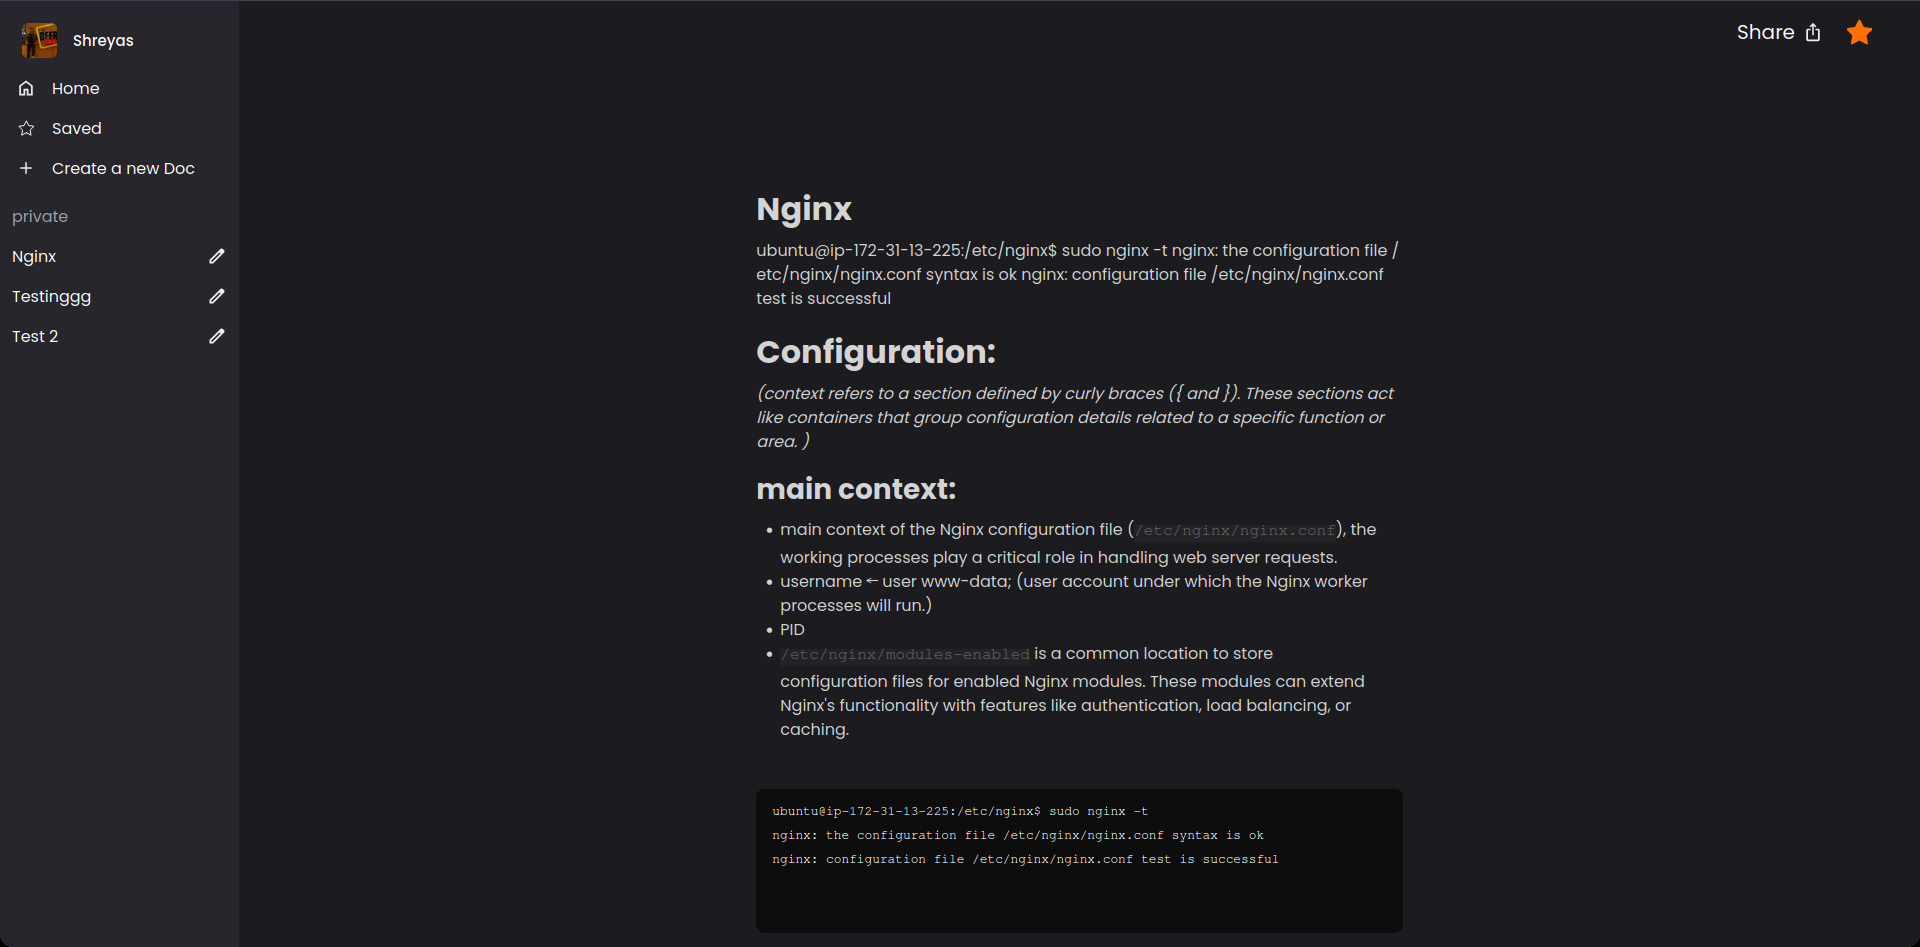
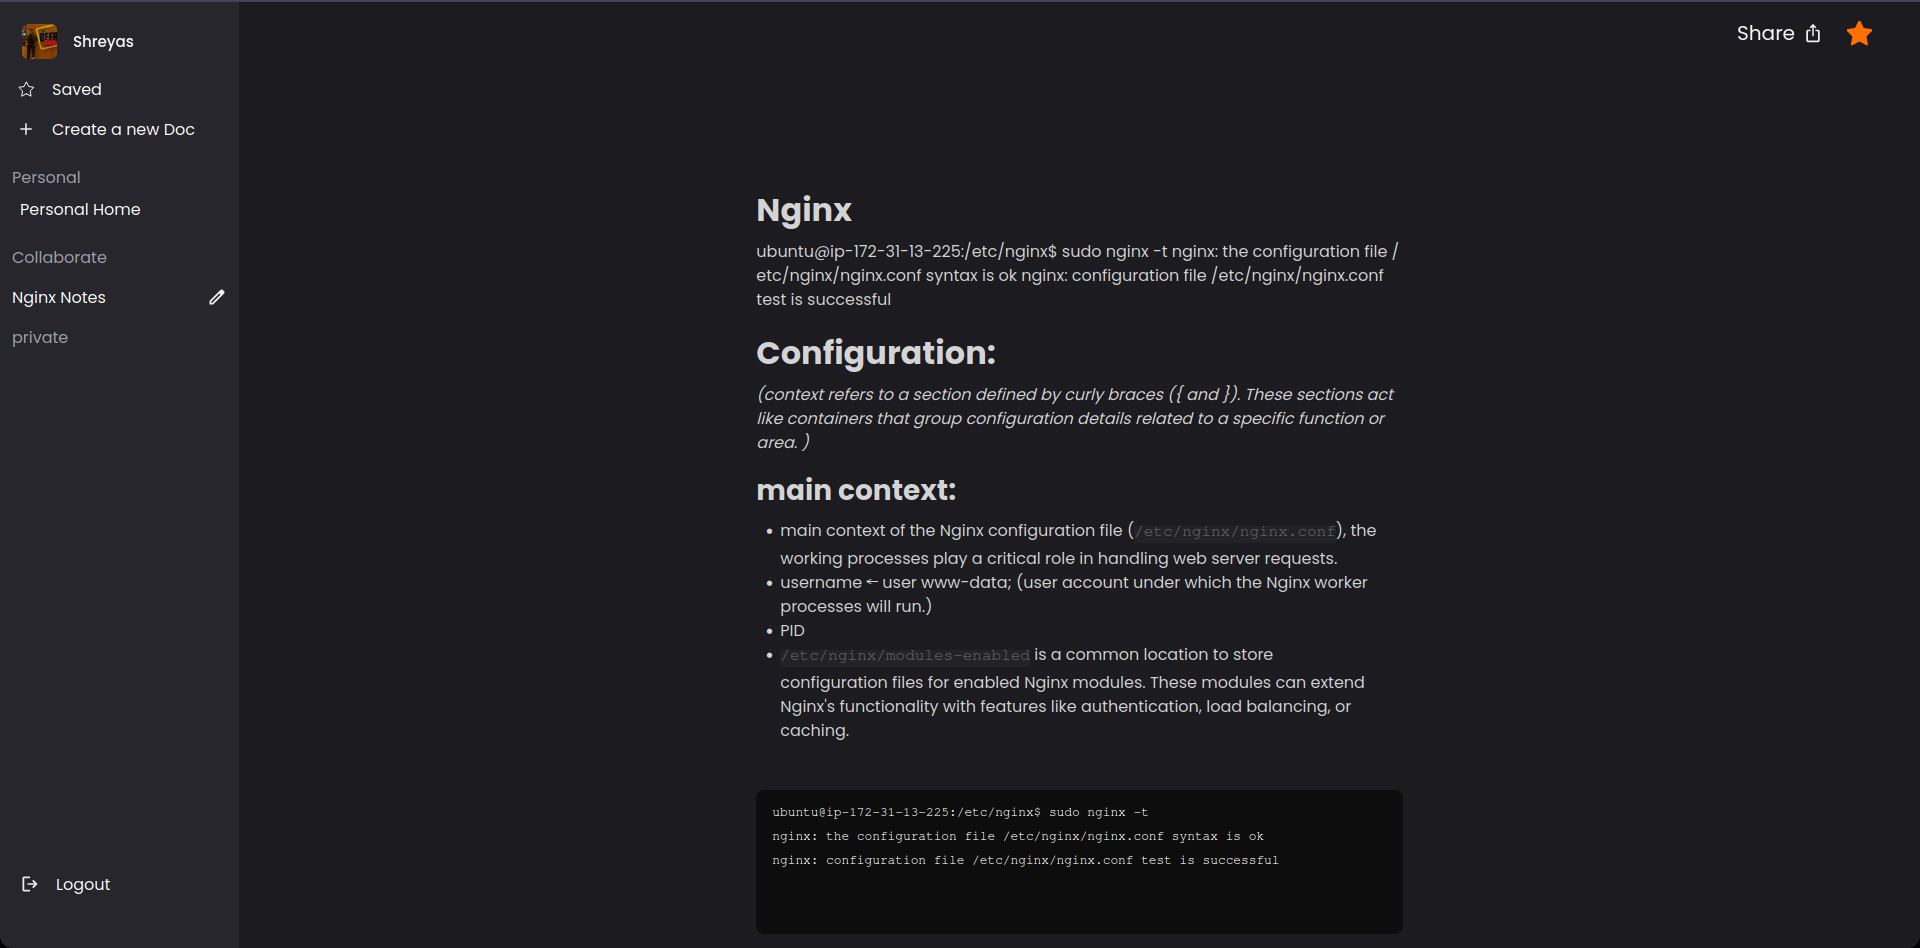
refactor: Add personal property to UserProps interface

diff --git a/types/index.ts b/types/index.ts
@@ -5,6 +5,7 @@ export interface UserProps {
   username: string;
   email: string;
   avatar?: string;
+  personal: string;
 }
 export interface Document {
   _id: ObjectId;
@@ -18,4 +19,8 @@ export interface Document {
 export interface CollaborationDocumentProp {
   documentId: Document;
   userId: ObjectId[];
+}
+export interface docProp {
+  _id: string;
+  title: string;
 }
